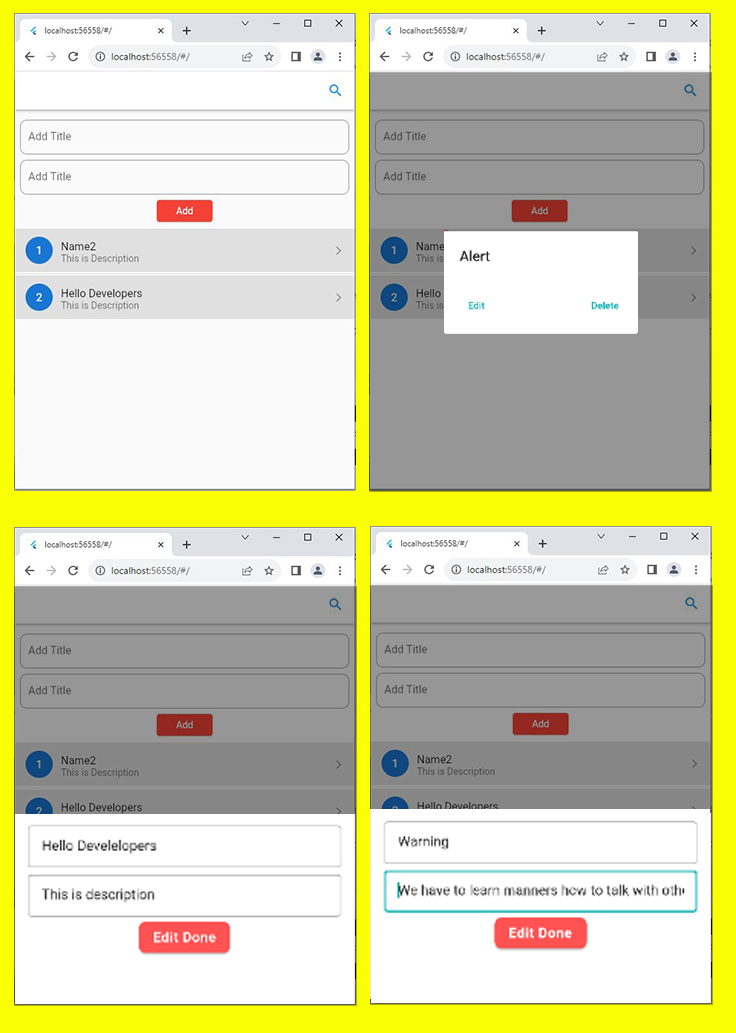
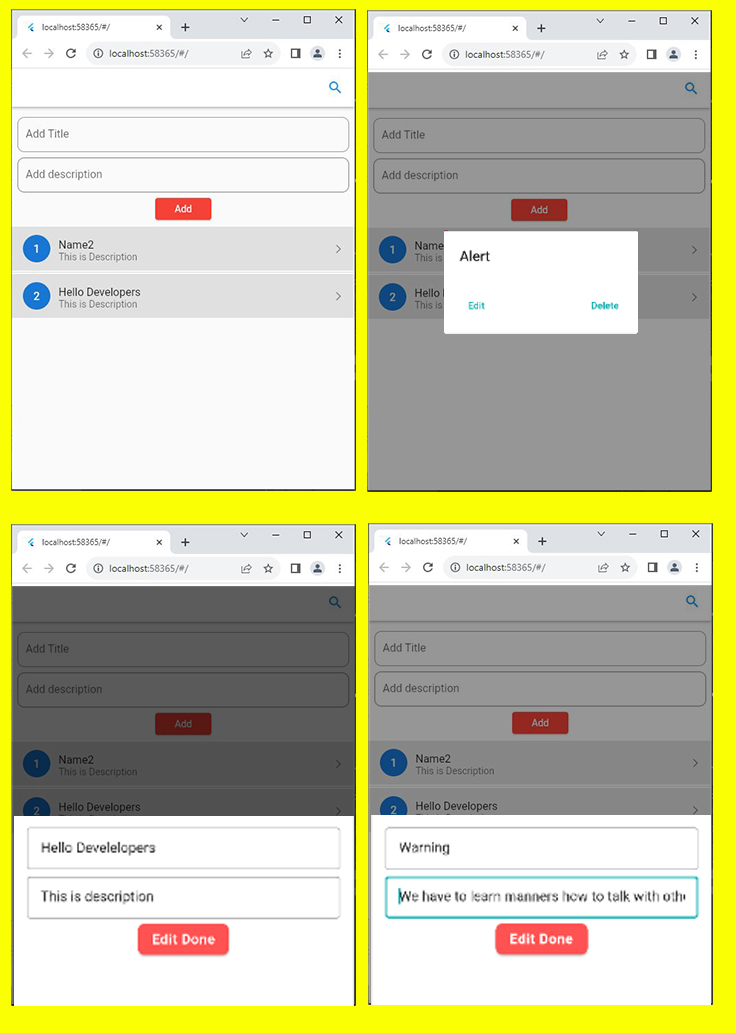
module ten assignment upload

diff --git a/module_ten_assignment/lib/main.dart b/module_ten_assignment/lib/main.dart
@@ -90,7 +90,7 @@ class _HomeScreenState extends State<HomeScreen> {
                 },
                 controller: descripCon,
                 decoration: InputDecoration(
-                    hintText: 'Add Title',
+                    hintText: 'Add description',
                     border: OutlineInputBorder(
                         borderRadius: BorderRadius.circular(10))),
               ),
